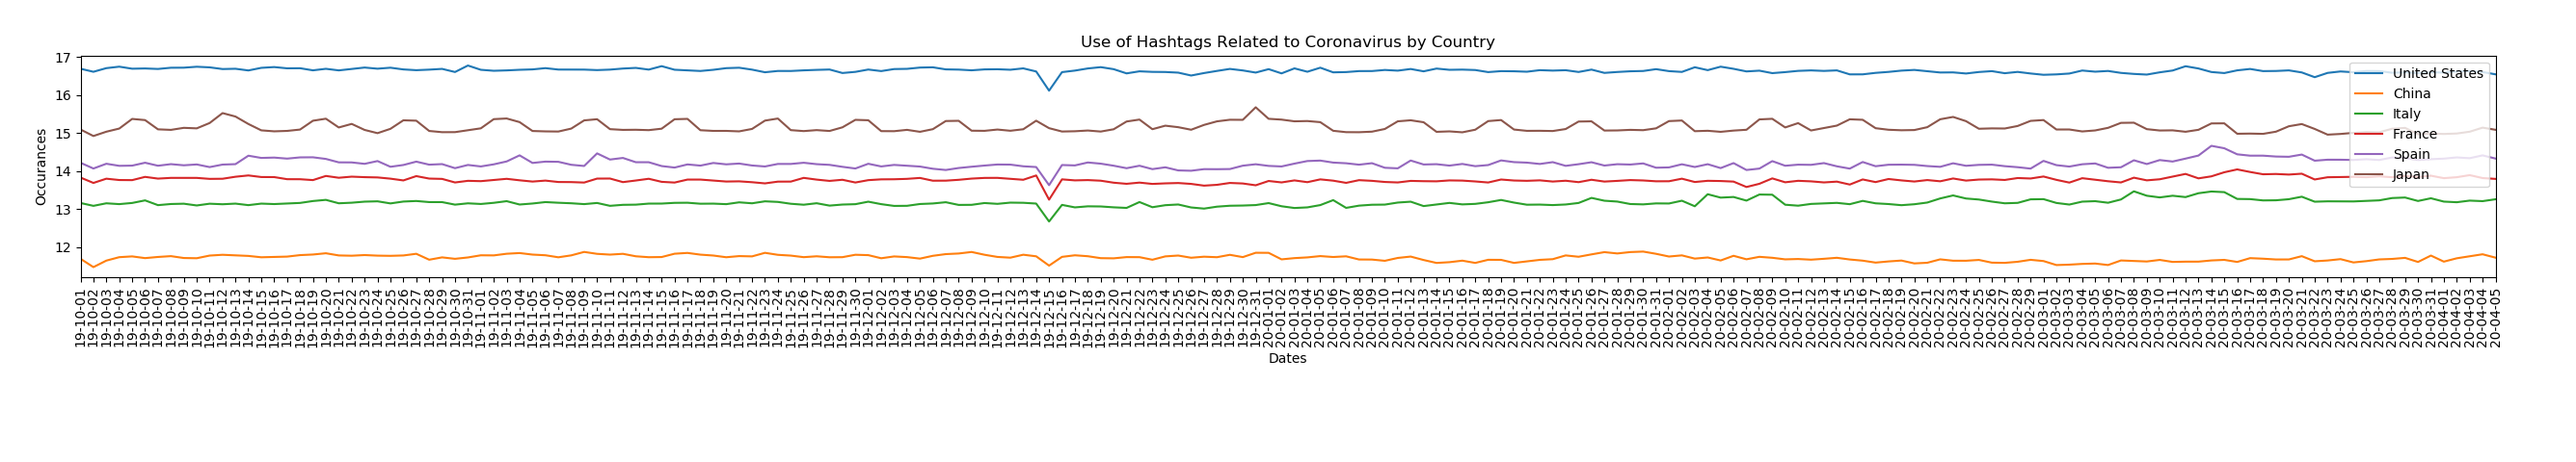
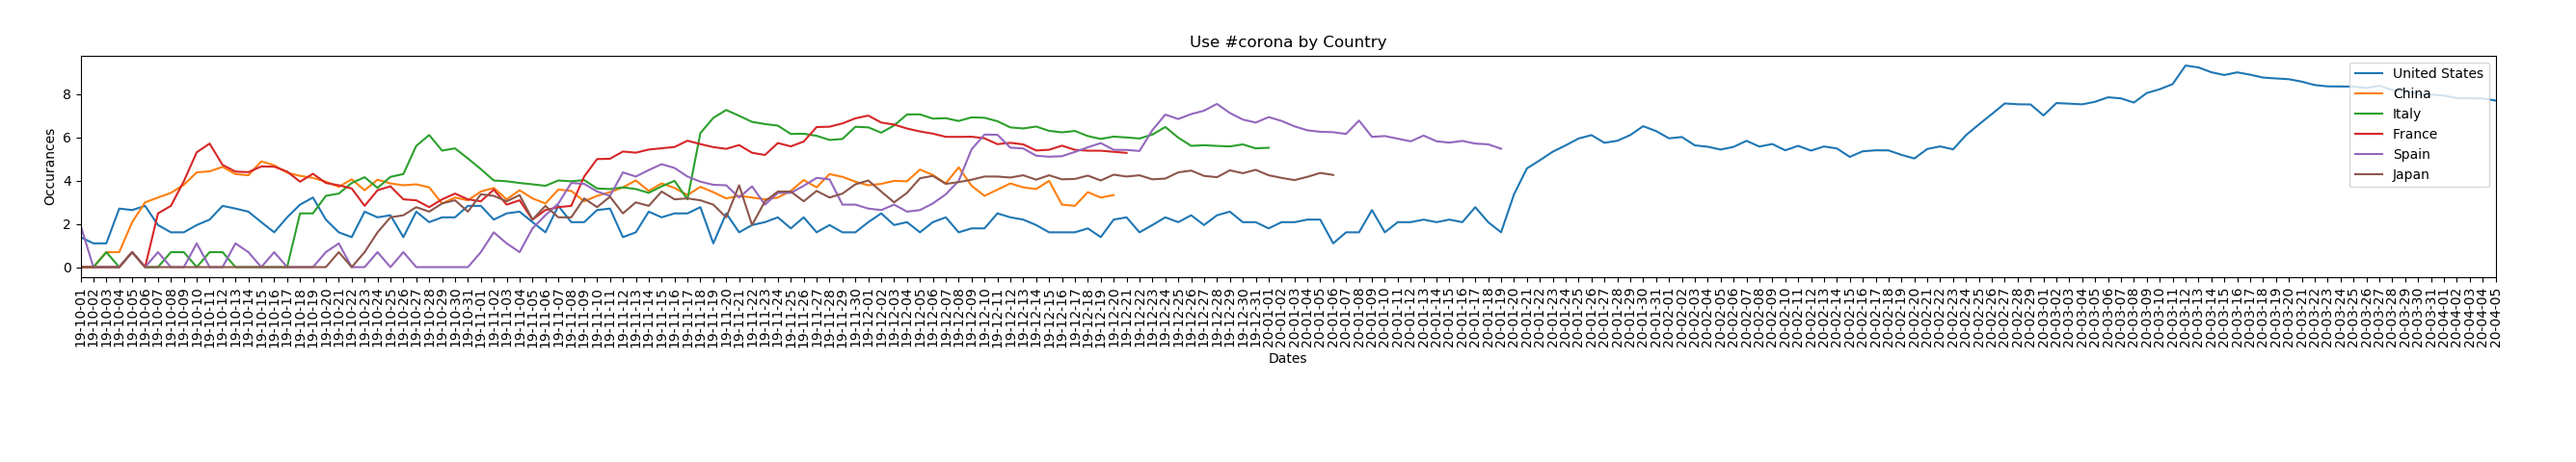
fixed graph.py

diff --git a/src/graphy.py b/src/graphy.py
@@ -28,7 +28,8 @@ i = 1
 for path in args.input_paths:
     with open(path)as f:
         tmp = json.load(f)
-        objects = sorted(tmp['_all'].items(), key = lambda item: (item[1],item[0]),reverse = True)
+        print(list(tmp))
+        objects = sorted(tmp['#corona'].items(), key = lambda item: (item[1],item[0]),reverse = True)
         date = path[18:26]
         for k,v in objects:
             if k == 'US':
@@ -51,7 +52,7 @@ plt.plot(FR, label = 'France')
 plt.plot(ES, label = 'Spain')
 plt.plot(JP, label = 'Japan')
 
-plt.title("Use of Hashtags Related to Coronavirus by Country")
+plt.title("Use #corona by Country")
 plt.xlabel("Dates")
 plt.ylabel("Occurances")
 
